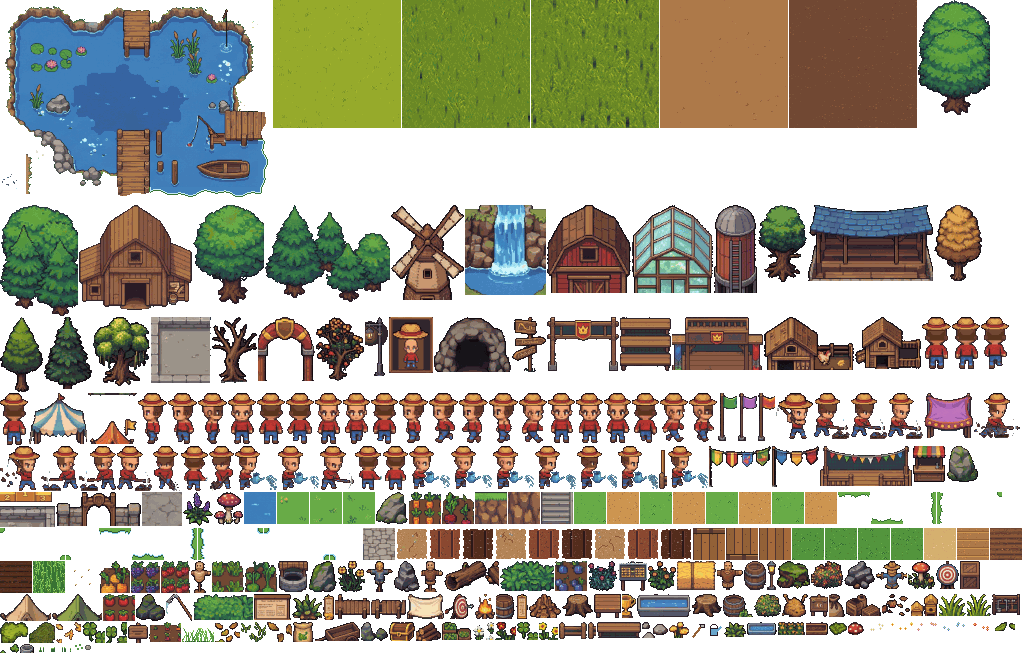
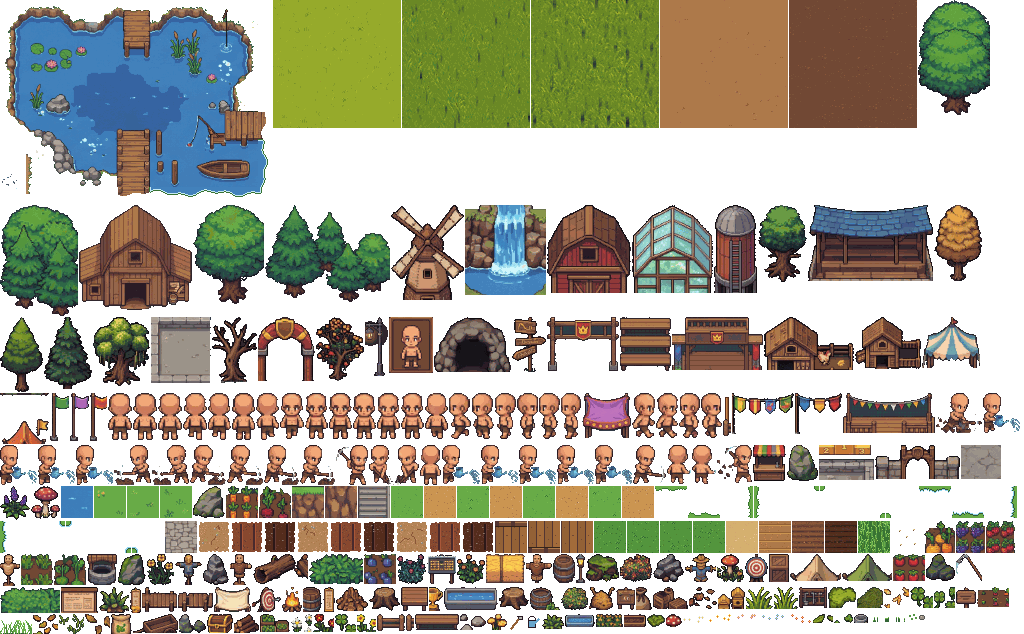
Nhân vật: chỉ cắt đúng như bản vẽ, bỏ phần tô đồ và mũ tự thêm
- tools/player_dress.py -> tools/player_cut.py: chỉ tách nền ô và thu nhỏ,
  không tô màu, không thêm mũ
- Ảnh đại diện lấy nguyên khung gỗ trong asset

Claude-Session: https://claude.ai/code/session_01BbaPnx3cHQqz9kHRAFFL9w

diff --git a/tools/player_cut.py b/tools/player_cut.py
@@ -1,6 +1,5 @@
-"""Cut the protagonist from assets/source/char_base.png (bald base body with
-full animations) and dress every frame procedurally so he matches the farmer
-of the farm map: straw hat, brown hair, red shirt, blue jeans, brown boots.
+"""Cut the protagonist from assets/source/char_base.png exactly as drawn
+(only the cell background is removed; nothing is added or recoloured).
 
 Returns {atlas_name: RGBA image}. Frame names:
   pl_{idle|walk}_{d|u|r}{0..3}   ('r' cells face LEFT on the sheet)
@@ -200,11 +199,9 @@ def put_hat(im, head):
 
 
 def frame(box, facing, scale):
+    """Cut one cell exactly as drawn (background removed), scaled down."""
     im = cut(box)
-    im, head = dress(im, facing)
-    im = put_hat(im, head)
-    bb = im.getchannel('A').getbbox()
-    im = im.crop(bb)
+    im = im.crop(im.getchannel('A').getbbox())
     w, h = im.size
     small = im.resize((max(1, round(w * scale)), max(1, round(h * scale))), Image.BOX)
     a = small.getchannel('A').point(lambda v: 255 if v >= 110 else 0)
@@ -227,31 +224,8 @@ def build():
         for i in range(4):
             out[f'pl_dig_{f}{i}'] = frame((COLS_A[i], ry0, COLS_A[i] + CW, ry1), f, scale)
             out[f'pl_water_{f}{i}'] = frame((COLS_B[i], ry0, COLS_B[i] + CW, ry1), f, scale)
-    # portrait: dress the framed avatar, keep its wooden frame
-    av = SRC.crop((2218, 970, 2432, 1240)).convert('RGBA')
-    inner = (16, 16, av.width - 16, av.height - 16)
-    body = av.crop(inner)
-    # the avatar background is brown, cut by colour instead of flood fill
-    bp = body.load()
-    bg = bp[3, 3]
-    for y in range(body.height):
-        for x in range(body.width):
-            p = bp[x, y]
-            if sum(abs(p[k] - bg[k]) for k in range(3)) < 40:
-                bp[x, y] = (0, 0, 0, 0)
-    body, head = dress(body, 'd')
-    body = put_hat(body, head)
-    bb = body.getchannel('A').getbbox()
-    body = body.crop(bb)
-    frame_im = av.copy()
-    fp = frame_im.load()
-    for y in range(16, av.height - 16):
-        for x in range(16, av.width - 16):
-            fp[x, y] = bg[:3] + (255,)
-    k = min((av.width - 40) / body.width, (av.height - 30) / body.height)
-    body = body.resize((int(body.width * k), int(body.height * k)), Image.LANCZOS)
-    frame_im.alpha_composite(body, ((av.width - body.width) // 2, av.height - 16 - body.height))
-    out['portrait'] = frame_im.resize((44, 56), Image.LANCZOS)
+    # portrait: the framed avatar as drawn
+    out['portrait'] = SRC.crop((2218, 970, 2432, 1240)).convert('RGBA').resize((44, 56), Image.LANCZOS)
     return out
 
 

diff --git a/tools/build_assets.py b/tools/build_assets.py
@@ -772,8 +772,8 @@ def main():
     images['tile_tallgrass'] = make_tall_grass_tile(600)
     images['tallgrass_top'] = tall_grass_top(601)
     images['seeds'] = make_seeds(images['tile_soil'])
-    # protagonist: base body from char_base.png dressed as the farmer of the map
-    import player_dress
+    # protagonist: cut from char_base.png as drawn
+    import player_cut as player_dress
     images.update(player_dress.build())
     images.update(tool_icons())
 
